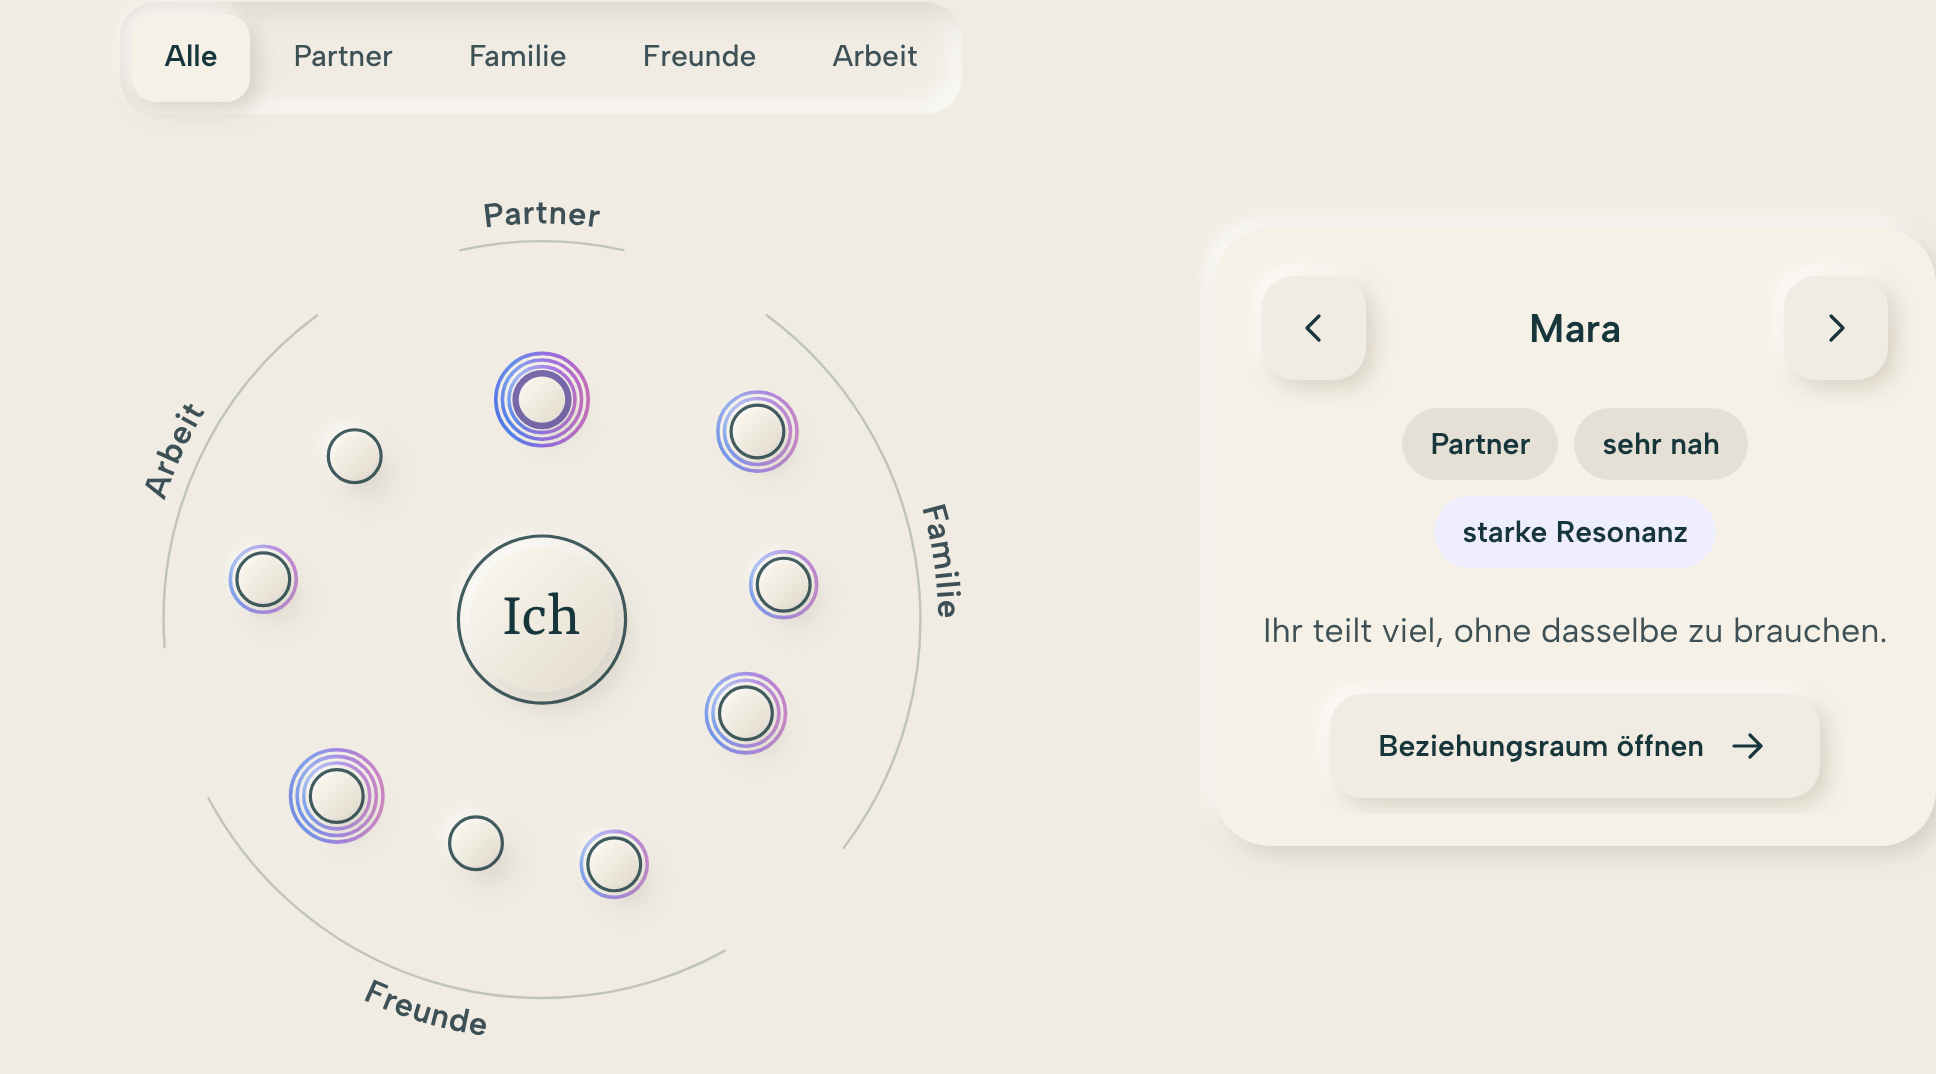
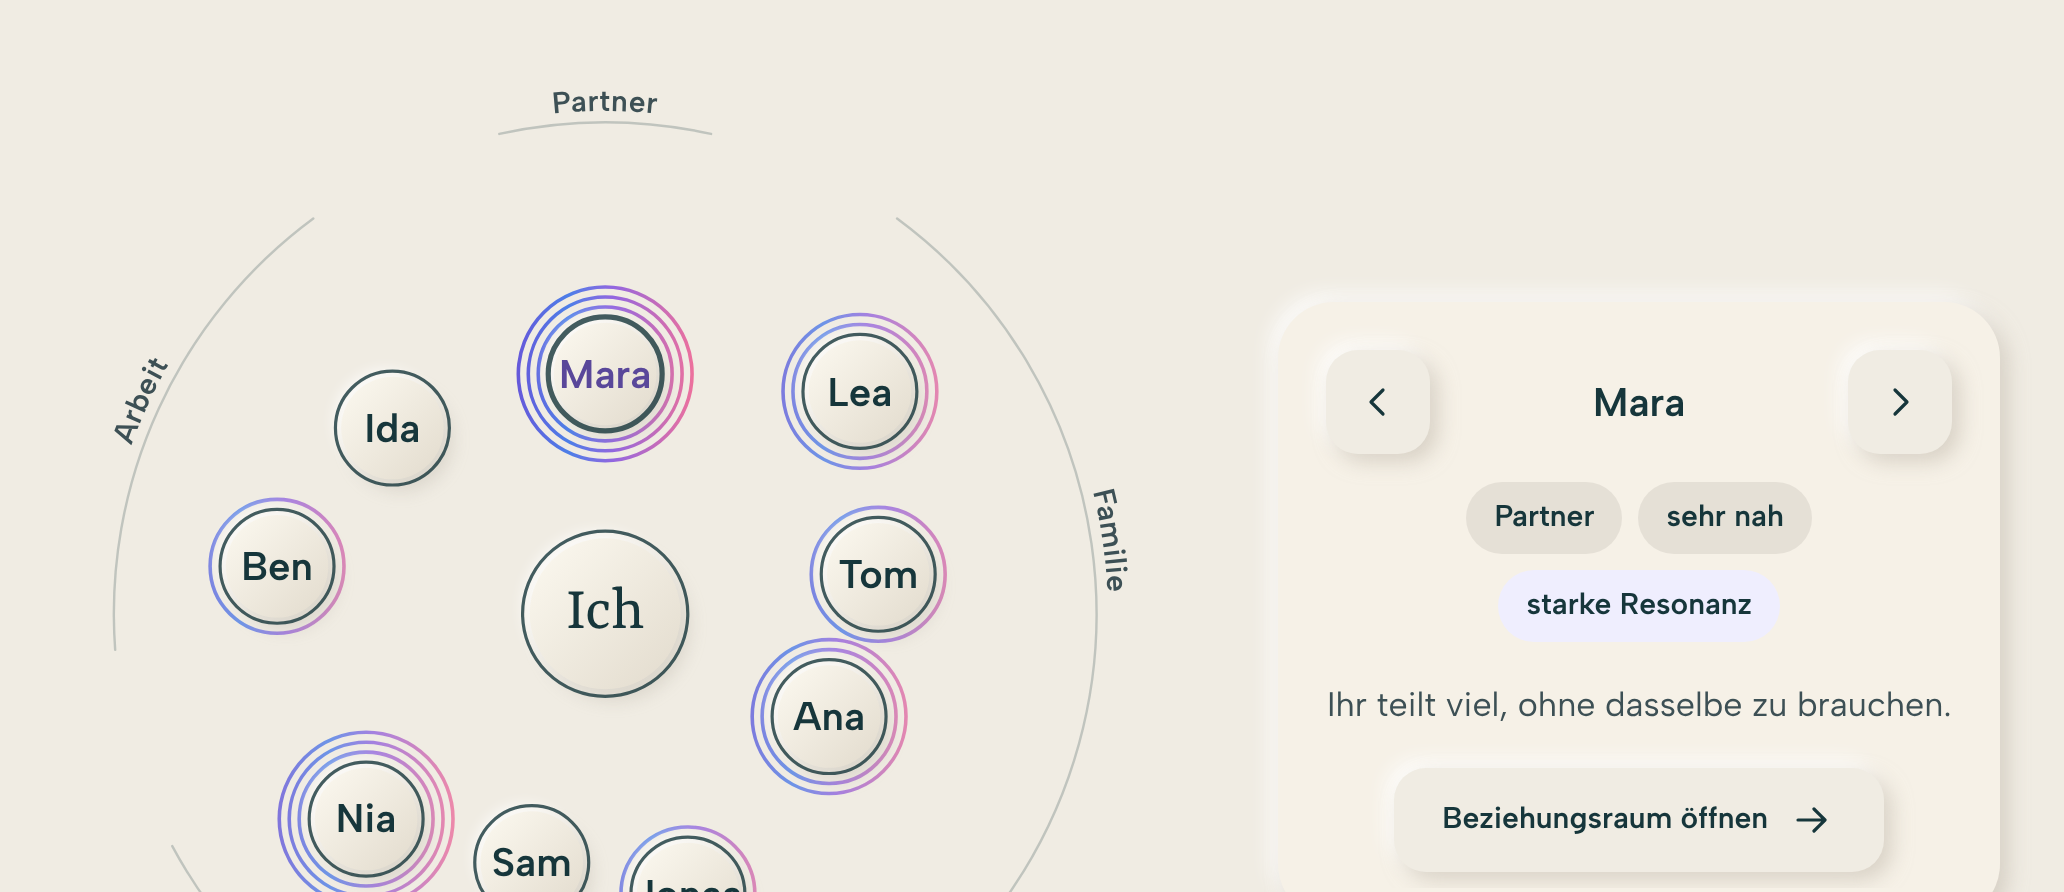
Umfeld: volle Darstellung ab 520 px Bühnenbreite
Die Schwelle lag bei 560 px. Bei 1100 px Fensterbreite ist die Bühne
541 px breit und zeigte darum die Telefon-Übersicht. Gemessen passen
Namen und Kreise ab 520 px.

Claude-Session: https://claude.ai/code/session_01GcUU3Qg4dj9oPnZ4iDHoTB

diff --git a/components/umfeld/umfeld.js b/components/umfeld/umfeld.js
@@ -20,12 +20,12 @@
    Das Bild ist auf seinen Inhalt beschnitten (Rand 16 Einheiten),
    damit das Panel früh im Sichtfeld steht.
 
-   Mobile-first: Unter 560 px Breite gilt das Hochformat. Neun Menschen waren dort bei 390 px zu eng
+   Mobile-first: Unter 520 px Bühnenbreite gilt das Hochformat. Neun Menschen waren dort bei 390 px zu eng
    (gemessen), darum steht über dem Bild eine Filterzeile: «Alle» ist die Übersicht, die Menschen
    stehen als kleine Punkte ohne Namen in ihren Gruppen (je Gruppe ein transparenter Knopf, Tipp wählt
    die Art). Eine Art zeigt nur ihre Menschen, gross und mit Namen, gleichmässig rund um «Ich», ohne
    Bögen. Der Filter folgt der Auswahl: Pfeile und Slider laufen durch alle Menschen, und wechselt man
-   in eine andere Art, springt der Filter mit. Ab 560 px (wide) gibt es keinen Filter, das Bild zeigt
+   in eine andere Art, springt der Filter mit. Ab 520 px (wide) gibt es keinen Filter, das Bild zeigt
    alle mit Namen. Wird das Element breiter oder schmaler, baut sich das Bild neu auf, die Auswahl bleibt.
 
    API: ElanumUmfeld.mount(root, { link: 'pfad/zum/beziehungsraum/', heading: 'h3' })
@@ -377,7 +377,7 @@
     }
     /* Die Breite der Bühne (Spalte), nicht der Szene: im Hochformat ist die Szene höchstens 440 px breit und käme sonst nie mehr zurück auf wide. */
     var column = root.querySelector('.umfeld__stage');
-    var pickLayout = function () { var w = column.getBoundingClientRect().width || root.getBoundingClientRect().width; return w && w < 560 ? 'tall' : 'wide'; };
+    var pickLayout = function () { var w = column.getBoundingClientRect().width || root.getBoundingClientRect().width; return w && w < 520 ? 'tall' : 'wide'; };
     draw(pickLayout());
     select(0);
     api.ready = true;

diff --git a/DESIGN-NOTES.md b/DESIGN-NOTES.md
@@ -245,7 +245,7 @@ Im Zentrum steht das Resonanzrad mit neun Elementen: den Grundlagen, aus denen R
 - Der Ring zeigt die drei Bereiche gleich stark und hebt nichts hervor. Icons, Konturen und Auswahlbogen sind Ink.
 - Seit 4.11.1 steht das Rad still: Ein Tipp wählt das Stück an seinem Platz, nichts dreht und nichts lässt sich ziehen. In der App wählen Rad und Pfeile nur, «Lesen» und die Liste öffnen das Element als Fenster (Telefon von unten, Computer Mitte); dieser Aufbau ist im Baustein noch nicht nachgebaut.
 
-**Umfeld** (`components/umfeld/`): Ich in der Mitte, Menschen als eigene, geschlossene Kreise. Der Abstand zeigt die Nähe. Null bis drei Linien im Verlauf um die Person zeigen die Resonanz, wie im Beziehungsraum; ohne aktive Resonanz gibt es keine Linie. Keine Linie führt zur Mitte, und einen Freiraum gibt es nicht, weil das Umfeld den Wert nicht kennt. Die Kreise sind Knöpfe: Ein Klick auf Kreis oder Name wählt den Menschen. Aufbau: das Bild, darunter ein einziges Panel (erhöhte Karte, ohne Trennstrich). Oben im Panel stehen die Pfeile (wie beim Resonanzrad) mit dem Namen des gewählten Menschen, direkt darunter Nähe und Resonanz als Pillen, die Notiz und der Knopf, alles zentriert. Jede Angabe steht nur einmal: kein „Du & Name“ und keine zweite Zustandszeile. Der Lesebereich lässt sich mit Finger oder Maus ziehen, Kreis, Name und Lesebereich bleiben im Gleichschritt. Die Liste entfällt, und die Karte mit Zähler ebenso (Rückmeldung Chris vom 15.11.2026: Design wie Ich-Übersicht, gleiche Pfeile, Pillen, mehr Raum und früher sichtbar; Rückmeldung Chris vom 16.11.2026: eine Einheit, jede Angabe einmal). Das Bild ist senkrecht auf den Inhalt beschnitten, damit das Panel früh im Sichtfeld steht, und im Auftritt erscheint es als Ganzes nach 0,4 Sekunden. Ab 900 px steht das Panel rechts neben dem Bild, zur Bildmitte ausgerichtet. Der Lesebereich öffnet den Beziehungsraum mit den Werten des Menschen. So trägt das Umfeld mehr als eine einzelne Beziehung. Unter 560 px Breite der Bühne gilt das Hochformat (Telefon): Über dem Bild steht eine Filterzeile nach Art («Alle», Partner, Familie, Freunde, Arbeit). «Alle» ist die Übersicht, die Menschen stehen als kleine Punkte ohne Namen in ihren Gruppen, über jeder Gruppe liegt ein einziger Knopf (Tipp wählt die Art und den ersten Menschen). Eine Art zeigt nur ihre Menschen, gross und mit Namen in echten 15 px, gleichmässig rund um «Ich», ohne Bögen. Pfeile und Slider laufen weiter durch alle Menschen, der Filter folgt der Auswahl. Grund: Neun Menschen waren bei 390 px zu eng, gemessen (Ringe überlappten um 4 bis 6 px, bei 320 px ragte «Jonas» aus dem Kreis). Entscheid Chris vom 16.11.2026. Ab 560 px gibt es keinen Filter, das Bild zeigt alle mit Namen. Entwurf vom 15.11.2026, die Version ist noch nicht freigegeben. Cluster nach Art: Der Winkel ist die Art, der Abstand die Nähe, die Linien sind die Resonanz. Wer zusammengehört, steht beieinander. Ein feiner Bogen mit dem Wort der Art fasst jede Gruppe, wie die Bereiche des Resonanzrads (Wort mindestens 15 px, in der unteren Hälfte andersherum, damit es nicht auf dem Kopf steht). Arten ohne Menschen bekommen keinen Platz, zwischen den Gruppen liegen 16°, die erste Gruppe steht oben. Die Art steht als erste Pille beim Menschen. Die Liste Partner, Familie, Freunde, Arbeit hat Chris am 16.11.2026 freigegeben. Der Glossar-Eintrag dazu steht noch aus. Der Filter nach Art auf dem Telefon ist umgesetzt (siehe oben).
+**Umfeld** (`components/umfeld/`): Ich in der Mitte, Menschen als eigene, geschlossene Kreise. Der Abstand zeigt die Nähe. Null bis drei Linien im Verlauf um die Person zeigen die Resonanz, wie im Beziehungsraum; ohne aktive Resonanz gibt es keine Linie. Keine Linie führt zur Mitte, und einen Freiraum gibt es nicht, weil das Umfeld den Wert nicht kennt. Die Kreise sind Knöpfe: Ein Klick auf Kreis oder Name wählt den Menschen. Aufbau: das Bild, darunter ein einziges Panel (erhöhte Karte, ohne Trennstrich). Oben im Panel stehen die Pfeile (wie beim Resonanzrad) mit dem Namen des gewählten Menschen, direkt darunter Nähe und Resonanz als Pillen, die Notiz und der Knopf, alles zentriert. Jede Angabe steht nur einmal: kein „Du & Name“ und keine zweite Zustandszeile. Der Lesebereich lässt sich mit Finger oder Maus ziehen, Kreis, Name und Lesebereich bleiben im Gleichschritt. Die Liste entfällt, und die Karte mit Zähler ebenso (Rückmeldung Chris vom 15.11.2026: Design wie Ich-Übersicht, gleiche Pfeile, Pillen, mehr Raum und früher sichtbar; Rückmeldung Chris vom 16.11.2026: eine Einheit, jede Angabe einmal). Das Bild ist senkrecht auf den Inhalt beschnitten, damit das Panel früh im Sichtfeld steht, und im Auftritt erscheint es als Ganzes nach 0,4 Sekunden. Ab 900 px steht das Panel rechts neben dem Bild, zur Bildmitte ausgerichtet. Der Lesebereich öffnet den Beziehungsraum mit den Werten des Menschen. So trägt das Umfeld mehr als eine einzelne Beziehung. Unter 520 px Bühnenbreite Breite der Bühne gilt das Hochformat (Telefon): Über dem Bild steht eine Filterzeile nach Art («Alle», Partner, Familie, Freunde, Arbeit). «Alle» ist die Übersicht, die Menschen stehen als kleine Punkte ohne Namen in ihren Gruppen, über jeder Gruppe liegt ein einziger Knopf (Tipp wählt die Art und den ersten Menschen). Eine Art zeigt nur ihre Menschen, gross und mit Namen in echten 15 px, gleichmässig rund um «Ich», ohne Bögen. Pfeile und Slider laufen weiter durch alle Menschen, der Filter folgt der Auswahl. Grund: Neun Menschen waren bei 390 px zu eng, gemessen (Ringe überlappten um 4 bis 6 px, bei 320 px ragte «Jonas» aus dem Kreis). Entscheid Chris vom 16.11.2026. Ab 520 px Bühnenbreite gibt es keinen Filter, das Bild zeigt alle mit Namen. Entwurf vom 15.11.2026, die Version ist noch nicht freigegeben. Cluster nach Art: Der Winkel ist die Art, der Abstand die Nähe, die Linien sind die Resonanz. Wer zusammengehört, steht beieinander. Ein feiner Bogen mit dem Wort der Art fasst jede Gruppe, wie die Bereiche des Resonanzrads (Wort mindestens 15 px, in der unteren Hälfte andersherum, damit es nicht auf dem Kopf steht). Arten ohne Menschen bekommen keinen Platz, zwischen den Gruppen liegen 16°, die erste Gruppe steht oben. Die Art steht als erste Pille beim Menschen. Die Liste Partner, Familie, Freunde, Arbeit hat Chris am 16.11.2026 freigegeben. Der Glossar-Eintrag dazu steht noch aus. Der Filter nach Art auf dem Telefon ist umgesetzt (siehe oben).
 
 **Beziehungsraum** (`components/beziehungsraum/`), neue Darstellung vom 15.11.2026 (Entwurf, PR 24). Der Baustein wird in der App ohne Regler gezeigt, darum muss das Bild allein lesbar sein. Jeder Wert hat ein eigenes Zeichen:
 - SVG-Raum 720 × 400, Mitte y = 170. Die Person ist ein Kreis mit Radius 50, immer gleich gross.

diff --git a/README.md b/README.md
@@ -199,7 +199,7 @@ Jeder Baustein ist ein klassisches Skript und legt ein Objekt auf `window`. Mit 
 **Umfeld** · `components/umfeld/`, dazu `beziehungsraum.css` · `window.ElanumUmfeld`
 
 - `mount(root, { link, heading })` zeichnet Ich und die Menschen darum und gibt `{ select(i), parts }` zurück. `link` führt zum Beziehungsraum, ergänzt um `?person=…&proximity=…&resonance=…`.
-- Bedienung: Die Kreise im Bild sind Knöpfe (Pfeiltasten wechseln den Menschen). Aufbau: das Bild, darunter (ab 900 px daneben) ein Panel `.umfeld__panel` (erhöhte Karte). Oben im Panel `.umfeld__nav` mit den Pfeilen und dem Namen des gewählten Menschen (`.umfeld__current`, als Überschrift im mit `heading` gewählten Level), darunter der Lesebereich `.umfeld__reader` mit Pillen für Nähe und Resonanz, Notiz und Knopf, zentriert, zum Ziehen mit Finger oder Maus. Jede Angabe steht nur einmal. Das Bild ist senkrecht auf den Inhalt beschnitten. Eine Liste gibt es nicht. Unter 560 px Breite (Telefon) steht über dem Bild die Filterzeile `.umfeld__filter` («Alle» und je eine Art): «Alle» zeigt die Menschen als Punkte ohne Namen mit einem Knopf `.umfeld__group` je Gruppe, eine Art zeigt ihre Menschen gross mit Namen. Pfeile und Slider laufen durch alle, der Filter folgt der Auswahl. `parts.view` ist `wide`, `all` oder `kind`. Grund: Rückmeldungen Chris vom 15.11. und 16.11.2026, Design wie die Ich-Übersicht, eine Einheit.
+- Bedienung: Die Kreise im Bild sind Knöpfe (Pfeiltasten wechseln den Menschen). Aufbau: das Bild, darunter (ab 900 px daneben) ein Panel `.umfeld__panel` (erhöhte Karte). Oben im Panel `.umfeld__nav` mit den Pfeilen und dem Namen des gewählten Menschen (`.umfeld__current`, als Überschrift im mit `heading` gewählten Level), darunter der Lesebereich `.umfeld__reader` mit Pillen für Nähe und Resonanz, Notiz und Knopf, zentriert, zum Ziehen mit Finger oder Maus. Jede Angabe steht nur einmal. Das Bild ist senkrecht auf den Inhalt beschnitten. Eine Liste gibt es nicht. Unter 520 px Bühnenbreite Breite (Telefon) steht über dem Bild die Filterzeile `.umfeld__filter` («Alle» und je eine Art): «Alle» zeigt die Menschen als Punkte ohne Namen mit einem Knopf `.umfeld__group` je Gruppe, eine Art zeigt ihre Menschen gross mit Namen. Pfeile und Slider laufen durch alle, der Filter folgt der Auswahl. `parts.view` ist `wide`, `all` oder `kind`. Grund: Rückmeldungen Chris vom 15.11. und 16.11.2026, Design wie die Ich-Übersicht, eine Einheit.
 - `people`: die Menschen der Vorschau, je mit `kind` (Art), `proximity` und `resonance`. Der Winkel sagt die Art (Partner, Familie, Freunde, Arbeit, im Uhrzeigersinn, die erste oben), der Abstand die Nähe, die Linien die Resonanz. Ein feiner Bogen mit dem Wort der Art fasst jede Gruppe (`parts.arcs`), das Wort misst am Bildschirm mindestens 15 px. Die Art steht als erste Pille. Auf dem Telefon wird es ab etwa acht Menschen eng, dann braucht es einen Filter nach Art.
 
 ```html
